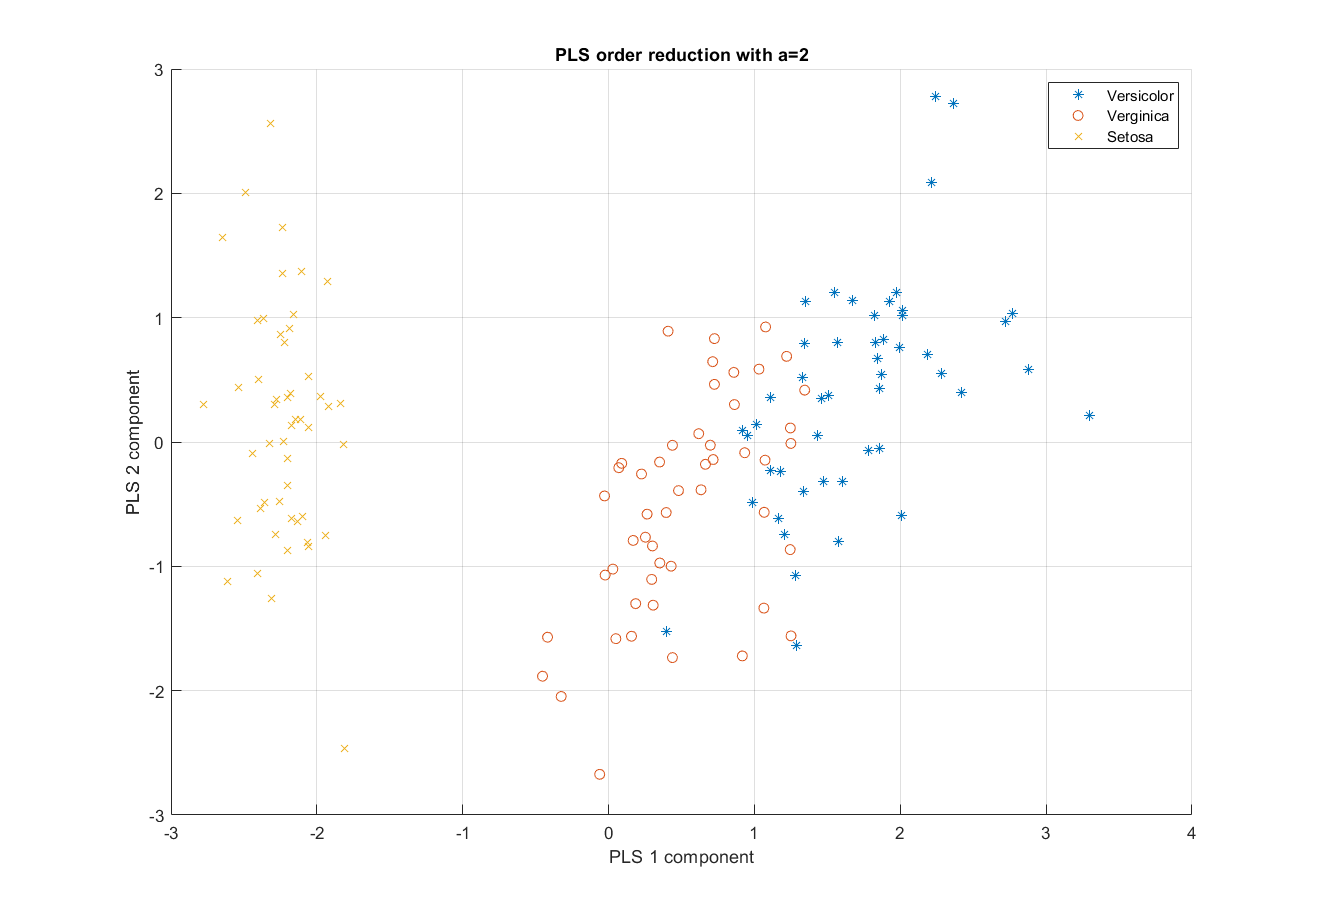
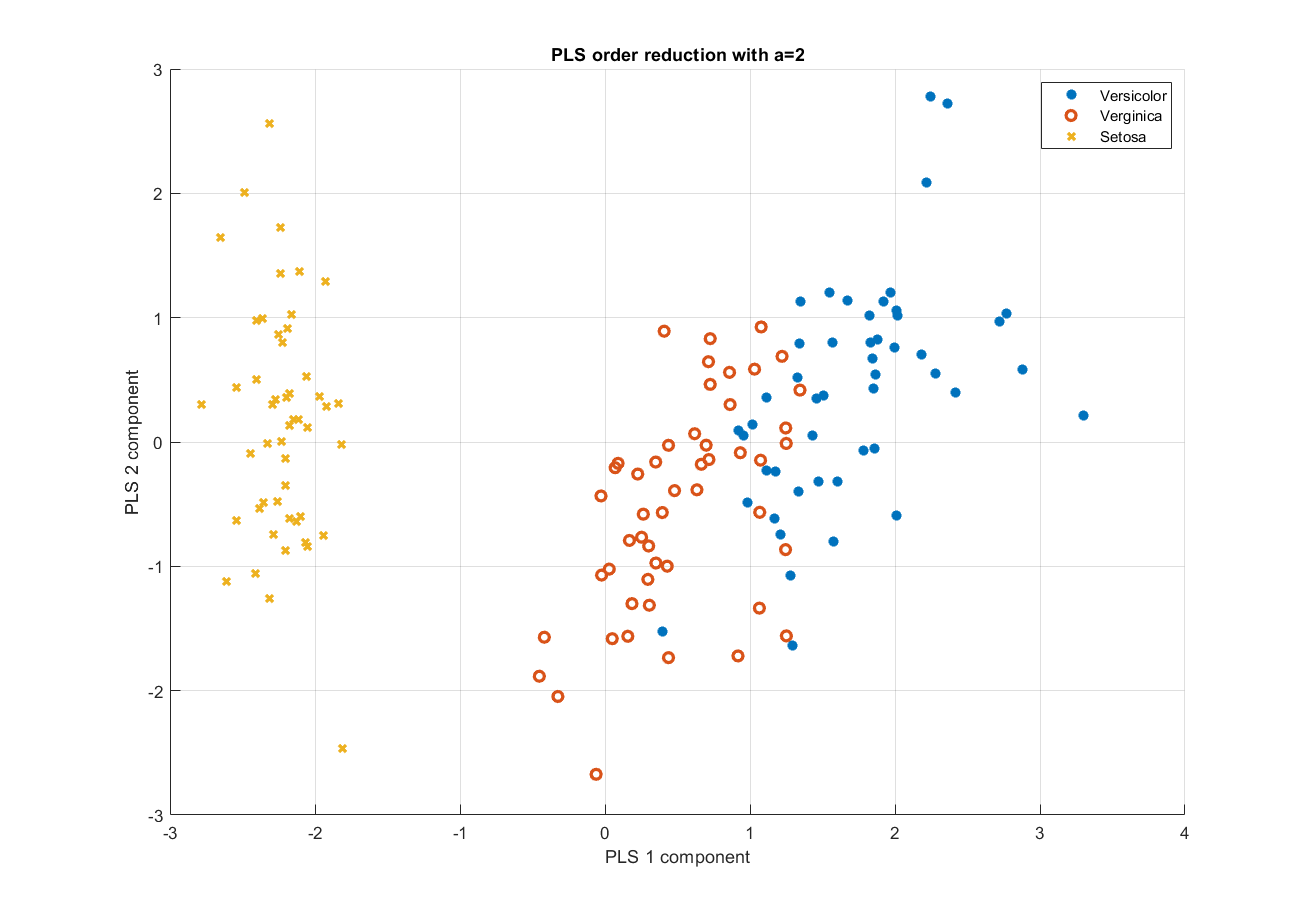
fix plot

diff --git a/Demo/Fisher_data_classidication.m b/Demo/Fisher_data_classidication.m
@@ -1,0 +1,102 @@
+clc
+clear
+close all
+addpath '../'
+
+Tbl = readtable('../Data/Fisher_data/Fisher.xls');
+[n,~]=size(Tbl);
+p=3; % n° class type (faut)
+m=4; % features
+
+%Class1: Virginica, Class2: Versicolor, Class3: Setos
+Tbl= sortrows(Tbl,"Type","descend");
+Tbl_Sorted=Tbl;
+Tbl_Sorted(1:50,:)=Tbl(51:100,:);
+Tbl_Sorted(51:100,:)=Tbl(1:50,:);
+X=table2array(Tbl_Sorted(:,3:6));
+
+% normalize X
+X_mu=mean(X);
+X_std=std(X);
+X=normalize(X);
+% to denormalize Xnorm(i)*std(i) + mu(i)
+
+% create Y n*p
+Y=zeros(n,p);
+Y(1:50,1)=ones(50,1);
+Y(51:100,2)=ones(50,1);
+Y(101:150,3)=ones(50,1);
+
+% normalize Y
+Y_mu=mean(Y);
+Y_std=std(Y);
+Y=normalize(Y);
+
+% order reduction:
+
+%%
+for aa=1:2
+    [T{aa}, P{aa}, U{aa}, Q{aa}, W{aa}, B{aa}, B2{aa}]=NIPALS(X,Y,aa+1);
+
+
+    Y_hat{aa}=X*B2{aa};
+    %for each row set the higer value to 1 and the others to 0 according to 6.4
+    for r=1:n
+    max_row=max(Y_hat{aa}(r,:));
+        for c=1:p
+            if Y_hat{aa}(r,c)==max_row
+                Y_hat{aa}(r,c)=1;
+            else
+                Y_hat{aa}(r,c)=0;
+            end
+        end
+    end
+
+% show performance
+    disp('_____________ SHOW PERFORMANCE_______________')
+    disp('Runing Multiclass confusion matrix')
+    Y_class{aa}=zeros(n,1);
+    Y_class{aa}(51:100)=1;
+    Y_class{aa}(101:150)=2;
+    Y_hat_class{aa}=zeros(n,1);
+    for r=1:n
+        if Y_hat{aa}(r,2)==1
+            Y_hat_class{aa}(r)=1;
+        else if Y_hat{aa}(r,3)==1
+            Y_hat_class{aa}(r)=2;
+        end
+        end
+    end
+    [c_matrix,Result,RefereceResult]= confusion.getMatrix(Y_class{aa},Y_hat_class{aa});
+    X_a_reduced{aa}=X*P{aa};
+    %plot reducion order X in a dimensions
+    if(aa==2)
+    figure
+    scatter3(X_a_reduced{aa}(1:50,1),X_a_reduced{aa}(1:50,2),X_a_reduced{aa}(1:50,3),'*','LineWidth',2);
+    hold on;
+    scatter3(X_a_reduced{aa}(51:100,1),X_a_reduced{aa}(51:100,2),X_a_reduced{aa}(51:100,3),'o','LineWidth',2);
+    hold on;
+    scatter3(X_a_reduced{aa}(101:150,1),X_a_reduced{aa}(101:150,2),X_a_reduced{aa}(101:150,3),'x','LineWidth',2);
+    grid on
+    title("PLS order reduction with a=3")
+    xlabel("PLS 1 component")
+    ylabel("PLS 2 component")
+    zlabel("PLS 3 component")
+    legend('Versicolor','Verginica','Setosa')
+    hold off
+    end
+    if(aa==1)
+    figure
+    scatter(X_a_reduced{aa}(1:50,1),X_a_reduced{aa}(1:50,2),'*','LineWidth',2);
+    hold on;
+    scatter(X_a_reduced{aa}(51:100,1),X_a_reduced{aa}(51:100,2),'o','LineWidth',2);
+    hold on;
+    scatter(X_a_reduced{aa}(101:150,1),X_a_reduced{aa}(101:150,2),'x','LineWidth',2);
+    grid on
+    title("PLS order reduction with a=2")
+    xlabel("PLS 1 component")
+    ylabel("PLS 2 component")
+    legend('Versicolor','Verginica','Setosa')
+    hold off
+    end
+end
